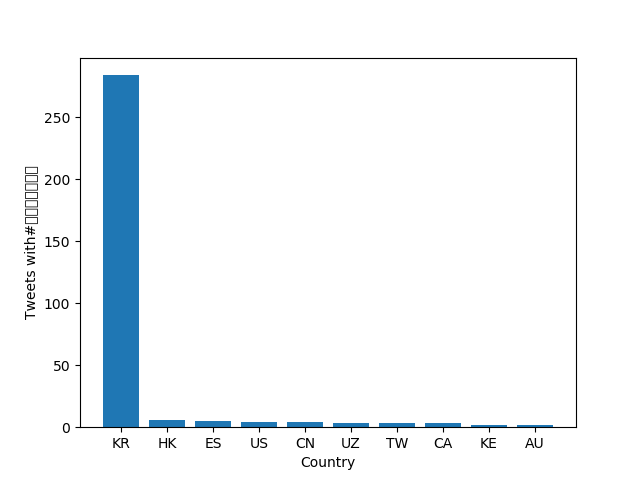
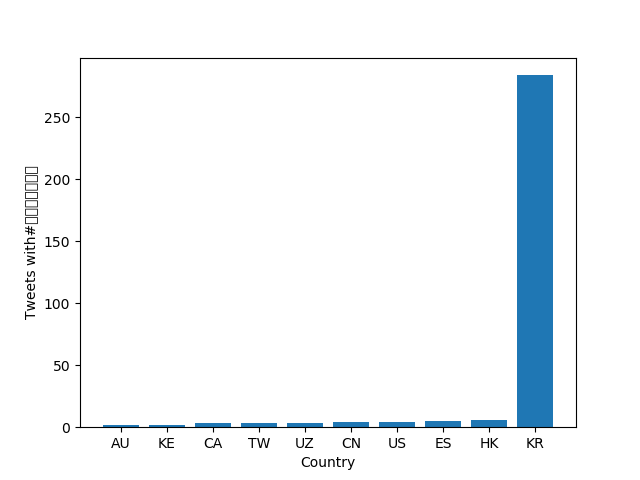
updated files

diff --git a/src/visualize.py b/src/visualize.py
@@ -25,30 +25,35 @@ if args.percent:
     for k in counts[args.key]:
         counts[args.key][k] /= counts['_all'][k]
 
-# sort the items by value in ascending order
-items = sorted(counts[args.key].items(), key=lambda item: (item[1],item[0]), reverse=True)
-print(items)
-print(type(items))
-print(type(items[1]))
+# print the count values
+#items = sorted(counts[args.key].items(), key=lambda item: (item[1],item[0]), reverse=True)
+orig_dict = dict(sorted(counts[args.key].items(), key=lambda item: (item[1],item[0]), reverse=True))
+#for k,v in items:
+ #   print(k,':',v)
 
-for k,v in items:
-    print(k,':',v)
 
-# create sorted dictionary before plotting
-lists = sorted(sorted(counts[args.key].items(), key=lambda item: (item[1],item[0]), reverse=True)[:10], key=lambda kv: kv[1])
-key, value = zip(*lists)
 
-# create bar graph
-plt.bar(key, value, color = 'maroon', width = 0.4)
+# Top 10 keys
+top_ten = dict(reversed(sorted(orig_dict.items(), key = lambda x: x[1], reverse=True)[:10]))
+key = []
+value = []
 
-if args.input_path == 'reduced.lang':
+print("Top 10" + str(top_ten))
+
+#Plotting
+plt.bar(range(len(top_ten)), list(top_ten.values()), align='center')
+plt.xticks(range(len(top_ten)), list(top_ten.keys()))
+
+plt.show()
+
+# if statements for lang/country
+if args.input_path == "reduced.lang":
     plt.xlabel("Language")
-    plt.ylabel("Usage level of " + args.key)
-    plt.title("Tweets with " + args.key + " in each language in 2020")
+    plt.ylabel("Tweets with" + args.key)
 else:
     plt.xlabel("Country")
-    plt.ylabel("Usage level of " + args.key)
-    plt.title("Tweets with " + args.key + " from each country in 2020")
+    plt.ylabel("Tweets with" + args.key)
 
-# save bar graph file to plots folder
-plt.savefig(args.input_path + args.key + 'ba.png')
+
+# save bar graph as png
+plt.savefig(args.input_path + args.key + '.png')
